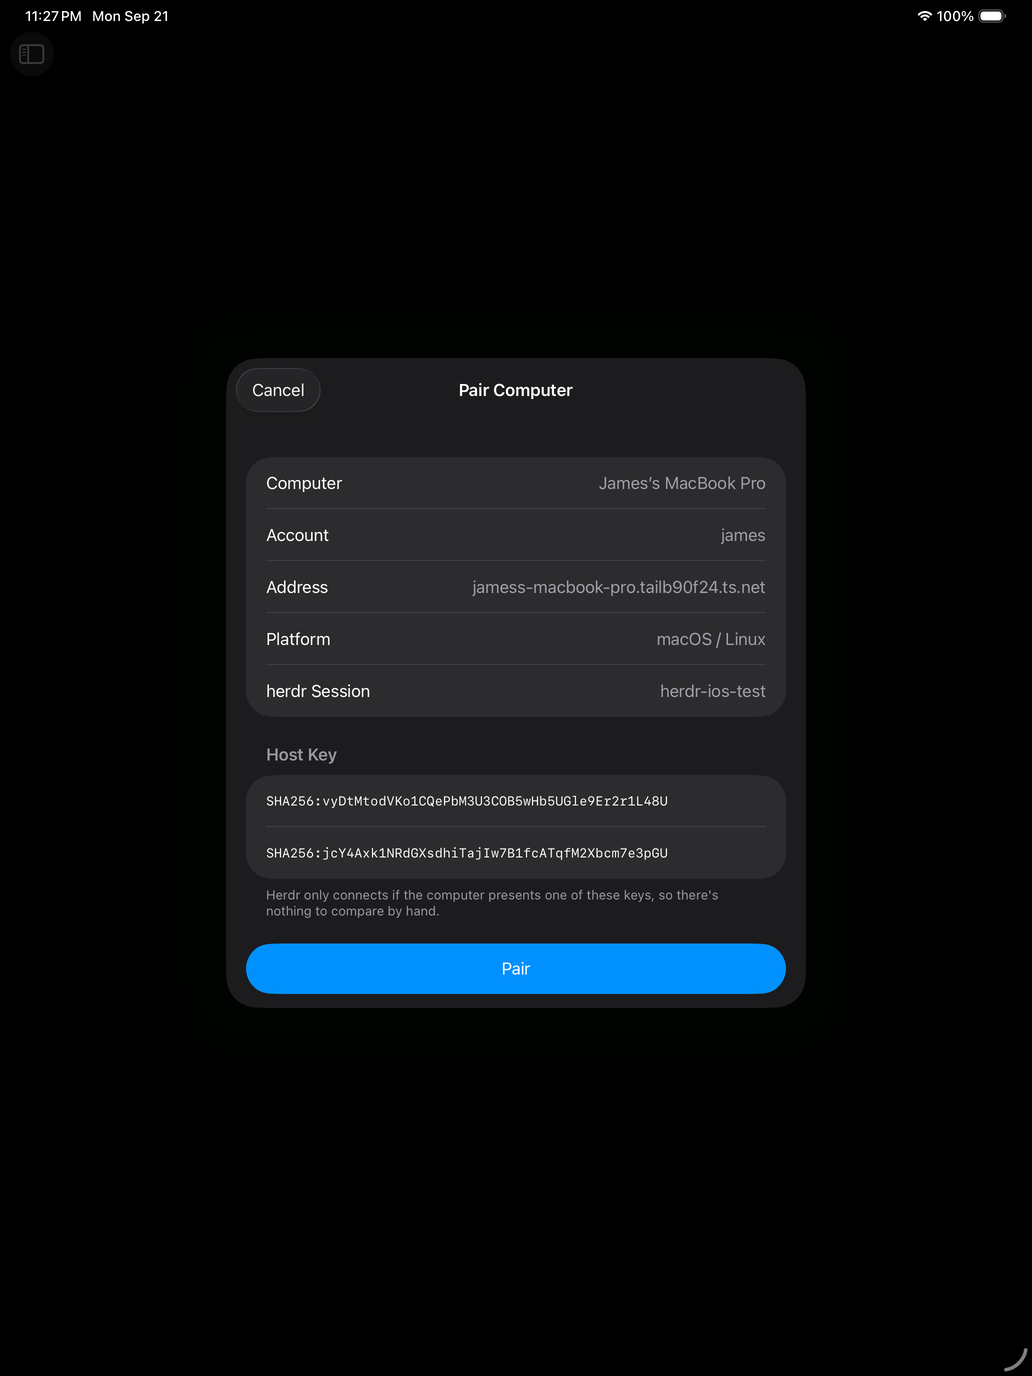
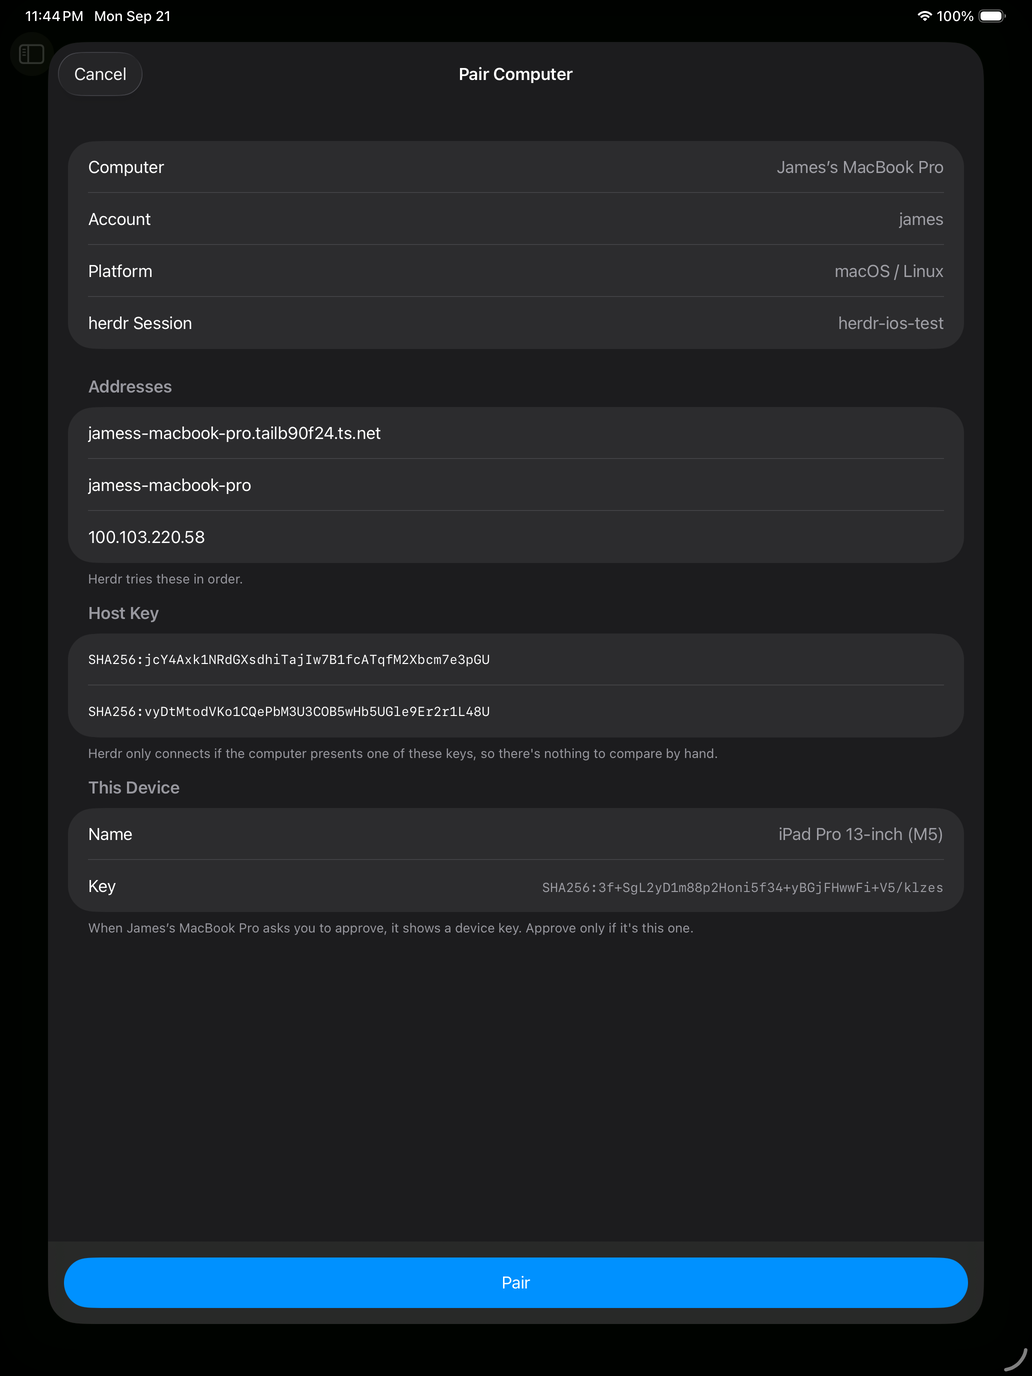
Pairing review: show this device's key and every address; handle USED
Review and waiting screens show DeviceKey.fingerprintSHA256() with
"approve only if the computer shows this key" (matches the helper's
prompt byte for byte on both simulators). The review lists every
address enroll may try. Pair and the key check sit in a pinned bottom
bar, the sheet is page-sized on iPad, and a code claimed by another
device reports USED. Fixes the w29:p5 review findings.

Claude-Session: https://claude.ai/code/session_014Zfcz4m7r1oQe1xof3r3rs

diff --git a/App/PairingFlow.swift b/App/PairingFlow.swift
@@ -118,6 +118,7 @@ private struct PairingReview: View {
     @State private var payload: Result<PairingPayload, Error>
     @State private var phase = Phase.review
     @State private var task: Task<Void, Never>?
+    @State private var deviceFingerprint: String?
 
     enum Phase: Equatable {
         case review, connecting, waiting, failed(String)
@@ -153,6 +154,7 @@ private struct PairingReview: View {
         }
         .interactiveDismissDisabled(phase == .connecting || phase == .waiting)
         .onDisappear { task?.cancel() }
+        .task { deviceFingerprint = try? DeviceKey.fingerprintSHA256() }
     }
 
     private func details(_ payload: PairingPayload) -> some View {
@@ -160,9 +162,19 @@ private struct PairingReview: View {
             Section {
                 LabeledContent("Computer", value: payload.name)
                 LabeledContent("Account", value: payload.username)
-                LabeledContent("Address", value: payload.hosts.first ?? "")
                 LabeledContent("Platform", value: payload.platform.label)
                 LabeledContent("herdr Session", value: payload.session ?? "default")
+            }
+            // Every address, not just the first: enroll falls through to the next one and saves
+            // whichever answers, so the user has to see all of them.
+            Section {
+                ForEach(payload.hosts, id: \.self) { Text($0) }
+            } header: {
+                Text(payload.hosts.count == 1 ? "Address" : "Addresses")
+            } footer: {
+                if payload.hosts.count > 1 {
+                    Text("Herdr tries these in order.")
+                }
             }
             Section {
                 ForEach(payload.fingerprints, id: \.self) { fingerprint in
@@ -176,30 +188,50 @@ private struct PairingReview: View {
                 Text("Herdr only connects if the computer presents one of these keys, so there's nothing to compare by hand.")
             }
             Section {
-                switch phase {
-                case .review:
-                    Button {
-                        pair(payload)
-                    } label: {
-                        Text("Pair").frame(maxWidth: .infinity)
-                    }
-                    .buttonStyle(.borderedProminent)
-                    .controlSize(.large)
-                case .connecting:
-                    progress("Connecting to \(payload.name)…")
-                case .waiting:
-                    progress("Waiting for approval on \(payload.name)…")
-                case .failed(let message):
-                    Label(message, systemImage: "exclamationmark.triangle.fill")
-                        .foregroundStyle(.red)
+                LabeledContent("Name", value: UIDevice.current.name)
+                LabeledContent("Key") {
+                    Text(deviceFingerprint ?? "…")
+                        .font(.system(.footnote, design: .monospaced))
+                        .textSelection(.enabled)
                 }
+            } header: {
+                Text("This Device")
             } footer: {
-                if phase == .waiting {
-                    Text("Approve this device at the herdr-pair prompt on \(payload.name).")
-                }
+                Text("When \(payload.name) asks you to approve, it shows a device key. Approve only if it's this one.")
             }
-            .listRowBackground(phase == .review ? Color.clear : nil)
-            .listRowInsets(phase == .review ? EdgeInsets() : nil)
+        }
+        // Pinned under the list, so Pair and the key check are never scrolled out of view.
+        .safeAreaInset(edge: .bottom) {
+            status(payload)
+                .frame(maxWidth: .infinity, alignment: .leading)
+                .padding()
+                .background(.bar)
+        }
+    }
+
+    @ViewBuilder
+    private func status(_ payload: PairingPayload) -> some View {
+        switch phase {
+        case .review:
+            Button {
+                pair(payload)
+            } label: {
+                Text("Pair").frame(maxWidth: .infinity)
+            }
+            .buttonStyle(.borderedProminent)
+            .controlSize(.large)
+        case .connecting:
+            progress("Connecting to \(payload.name)…")
+        case .waiting:
+            VStack(alignment: .leading, spacing: 8) {
+                progress("Waiting for approval on \(payload.name)…")
+                Text("Approve only if \(payload.name) shows this device's key: \(deviceFingerprint ?? "…")")
+                    .font(.footnote)
+                    .foregroundStyle(.secondary)
+            }
+        case .failed(let message):
+            Label(message, systemImage: "exclamationmark.triangle.fill")
+                .foregroundStyle(.red)
         }
     }
 

diff --git a/App/UITests/HerdrUITests.swift b/App/UITests/HerdrUITests.swift
@@ -128,7 +128,14 @@ final class HerdrUITests: XCTestCase {
         // A host-key mismatch or pin conflict is refused before the approval step.
         let reached = Date().addingTimeInterval(30)
         while !waiting.exists, !(expect != "paired" && failure.exists), Date() < reached { sleep(1) }
-        if waiting.exists { snap("pair-waiting") }
+        if waiting.exists {
+            snap("pair-waiting")
+            // What the phone asks the user to compare with the computer's approval prompt.
+            let check = app.staticTexts.matching(NSPredicate(format: "label CONTAINS %@", "shows this device's key:")).firstMatch
+            if check.exists {
+                try? check.label.write(toFile: "\(dir)/\(tag)-device-check.txt", atomically: true, encoding: .utf8)
+            }
+        }
         if expect == "paired" {
             XCTAssert(waiting.exists, "never waited for approval")
             XCTAssert(waiting.waitForNonExistence(timeout: 150))

diff --git a/App/HostsView.swift b/App/HostsView.swift
@@ -73,6 +73,7 @@ struct HostsView: View {
         }
         .sheet(item: $pairing) { route in
             PairingFlow(route: route) { host in selection = host.id }
+                .presentationSizing(.page)
         }
         // herdr://pair links, from the system Camera or `simctl openurl`.
         .onOpenURL { url in

diff --git a/docs/lanes/app.md b/docs/lanes/app.md
@@ -31,10 +31,17 @@ running on the physical iPhone. The iPad install waits on the iPad being unlocke
   **Scan Computer** scanner (VisionKit `DataScannerViewController`, QR only). The scanner ignores
   any other code. Where there is no camera (Simulator, unsupported hardware) the scanner falls back
   to text pointing at the Camera app and manual entry. The review sheet shows the computer name,
-  account, address, platform, session and the code's host-key fingerprints. **Pair** runs
-  `Pairing.enroll`, shows "Connecting to …" and then "Waiting for approval on …", then saves the
-  returned host and opens its terminal. Re-pairing the same account updates that host instead of
-  adding a twin. Every failure says what to do next. The device name is `UIDevice.current.name`.
+  account, platform, session, *every* address in the code in the order enroll tries them (it saves
+  whichever answers), and the code's host-key fingerprints. It also shows this device's name and
+  key fingerprint (`DeviceKey.fingerprintSHA256()`, the same `SHA256:` string the helper prints
+  in its approval prompt). **Pair** sits in a bar pinned under the list. It runs
+  `Pairing.enroll`, which shows "Connecting to …", then "Waiting for approval on …" with "Approve
+  only if <computer> shows this device's key: SHA256:…". It then saves the returned host and opens
+  its terminal. On iPad the sheet uses page sizing, so everything fits without scrolling. Re-pairing the same account updates that host instead of
+  adding a twin. Every failure says what to do next, including `.used` ("Another device already
+  used this code. Deny its request on the computer, then pair again."). The device name is
+  `UIDevice.current.name`. Without the user-assigned-device-name entitlement a physical device
+  sends just "iPhone" or "iPad", so the key fingerprint is what the user checks.
   "Pair a Computer" is the primary empty-state action and a toolbar button. Manual add stays.
 - `App/TerminalScreen.swift`: the terminal, a status overlay (connecting, reconnecting, failed
   with the multi-line reason, session ended), and the host-key sheet.
@@ -179,6 +186,21 @@ The helper takes its name and addresses from Tailscale (`SupedUpSilly`,
 Afterwards the paired keys were removed from both hosts, and `herdr-ios-test` was deleted on both.
 Each `authorized_keys` is back to its lines from before this lane.
 
+**Device-key check and a code used twice** (after the w29:p5 review):
+
+- The fingerprint each simulator displayed while waiting (saved by the test from the screen)
+  equals the one the helper printed in its approval prompt, byte for byte. iPhone:
+  `SHA256:OSWJon4xFHOO1GErXmFrpRdz7ttZiEnQRH40KxMFWsE`. iPad:
+  `SHA256:3f+SgL2yD1m88p2Honi5f34+yBGjFHwwFi+V5/klzes`. Screens: `pair-mac-iphone-review.png`
+  and `-waiting.png`, `pair-mac-ipad-waiting.png`.
+- One code was opened on both simulators. The iPad claimed it and waited at the helper's prompt.
+  The iPhone's Pair then failed with "Another device already used this code. Deny its request on
+  the computer, then pair again." (`pair-used-iphone-failed.png`). Approving the iPad paired it
+  (`pair-used-ipad-connected.png`), and no one-time line was left.
+
+The Windows pairing screenshots below predate the device-key panel and the address list. The
+phone code they ran is otherwise the same.
+
 An expired code is rejected by the parser before any connection, with p7's
 `PairingPayloadError.expired` text.
 
@@ -233,8 +255,8 @@ Package Graph" for 10+ minutes after a test.
 
 - `~/.ssh/authorized_keys` on this Mac: the simulators' keys (`herdr-ios-sim-*` from
   `authorize-key.sh`, and later `herdr-ios:<device>:<date>` from pairing) were all removed again.
-  The remaining `herdr-ios-test` and `supedupsilly-to-mac` lines belong to the transport and hosts
-  lanes.
+  The remaining lines aren't this lane's: `herdr-ios-test` is transport's test key, and
+  `supedupsilly-to-mac` is a PC-to-Mac key that was already there. Both are left alone.
 - The PC's `C:\Users\volpe\.ssh\authorized_keys` got the simulators' keys for the Windows and
   pairing runs. They are removed, and only the two original lines remain. Its `herdr-ios-test`
   session is deleted.
